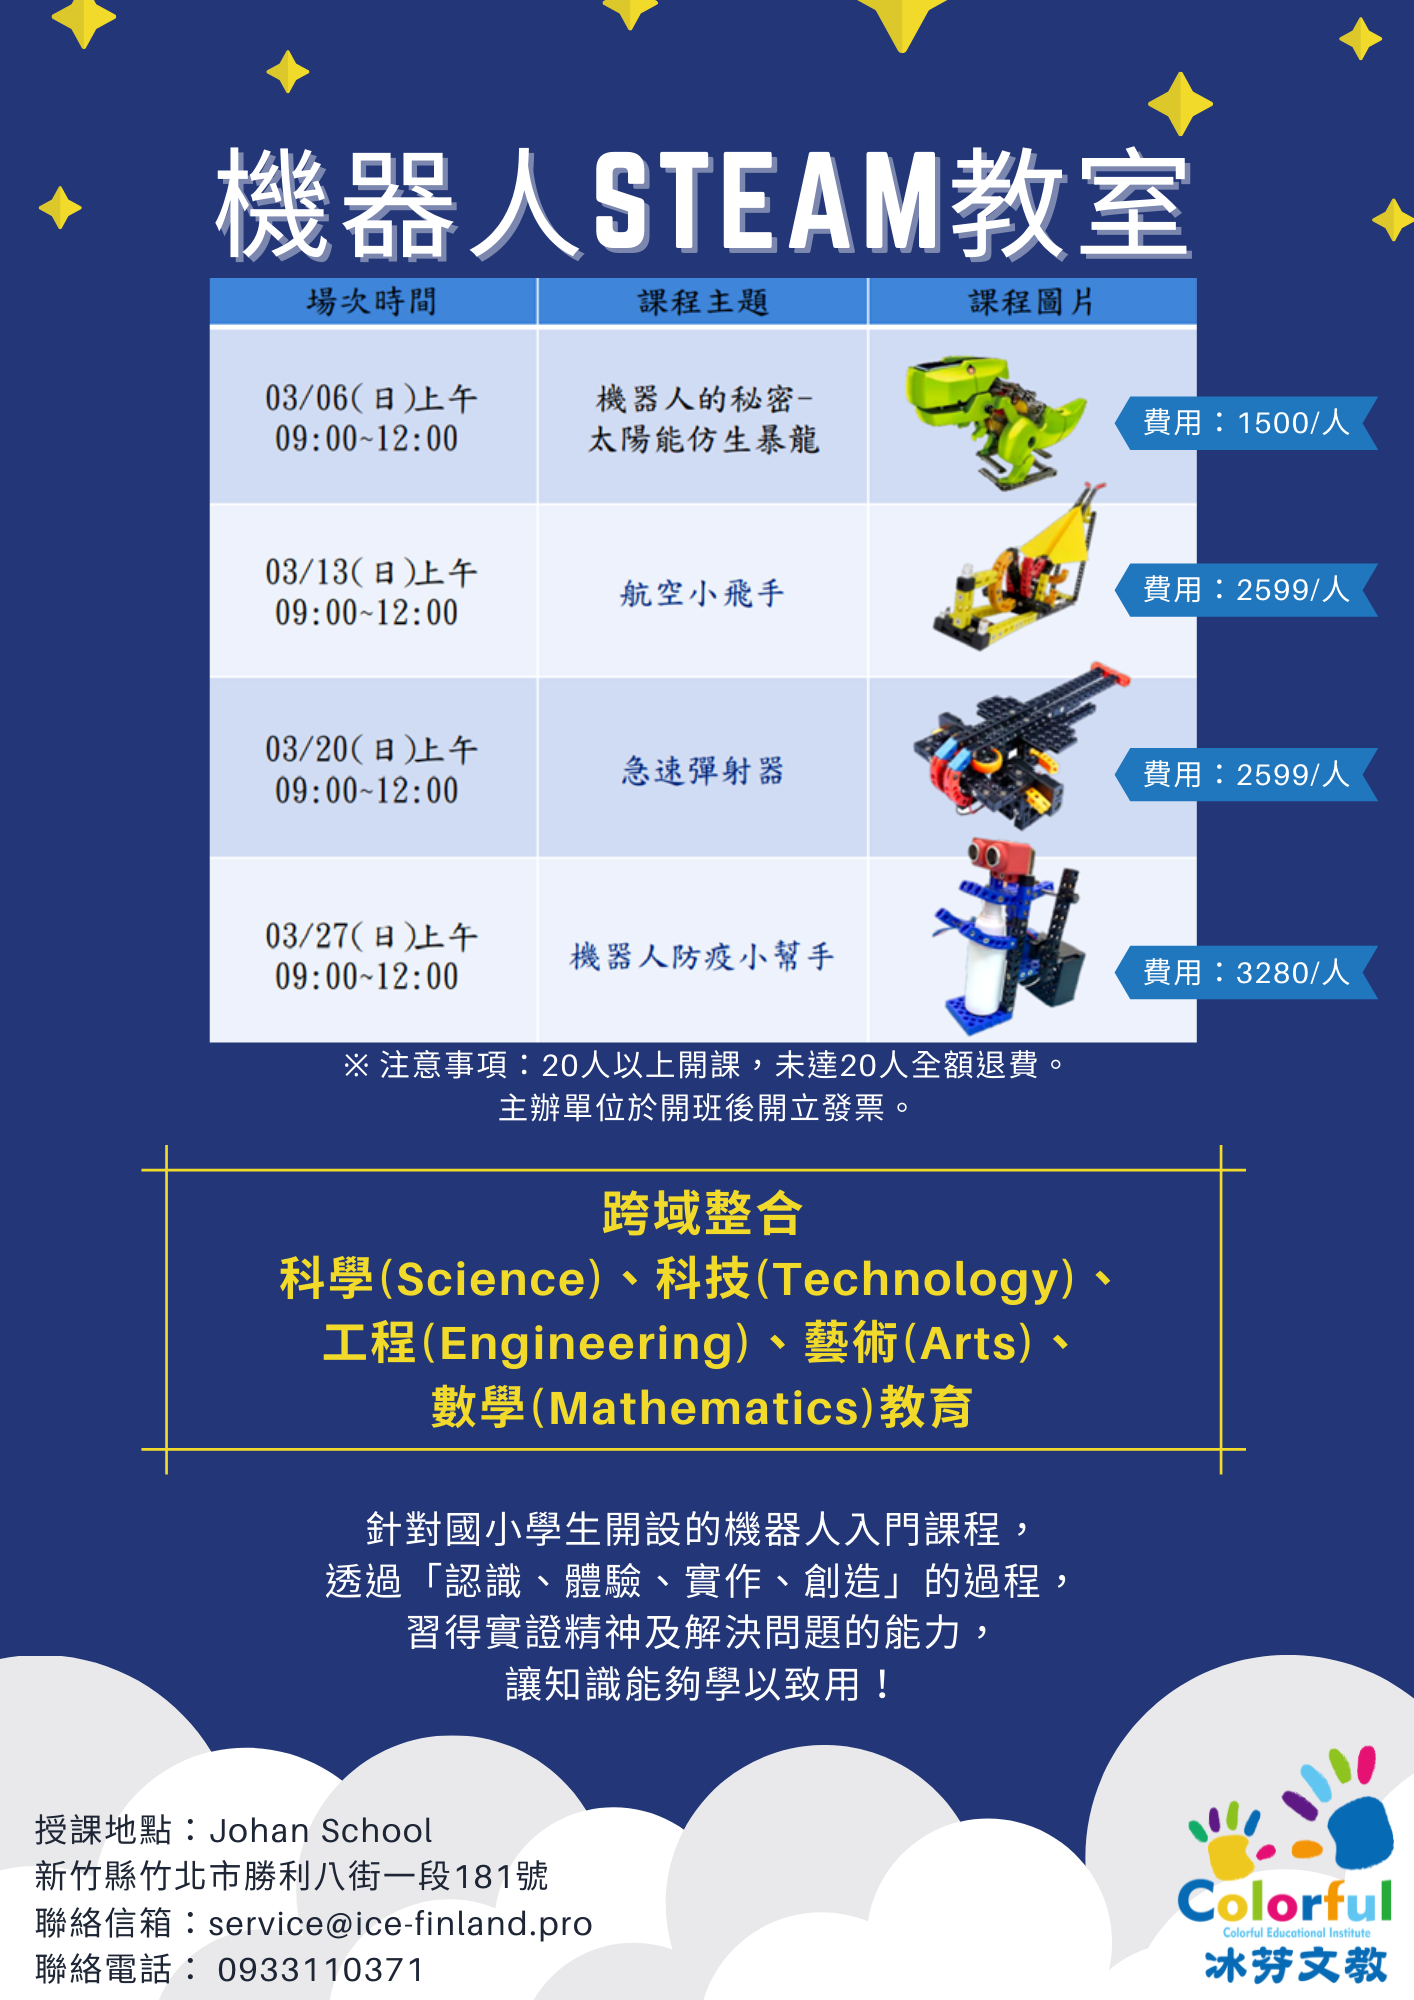
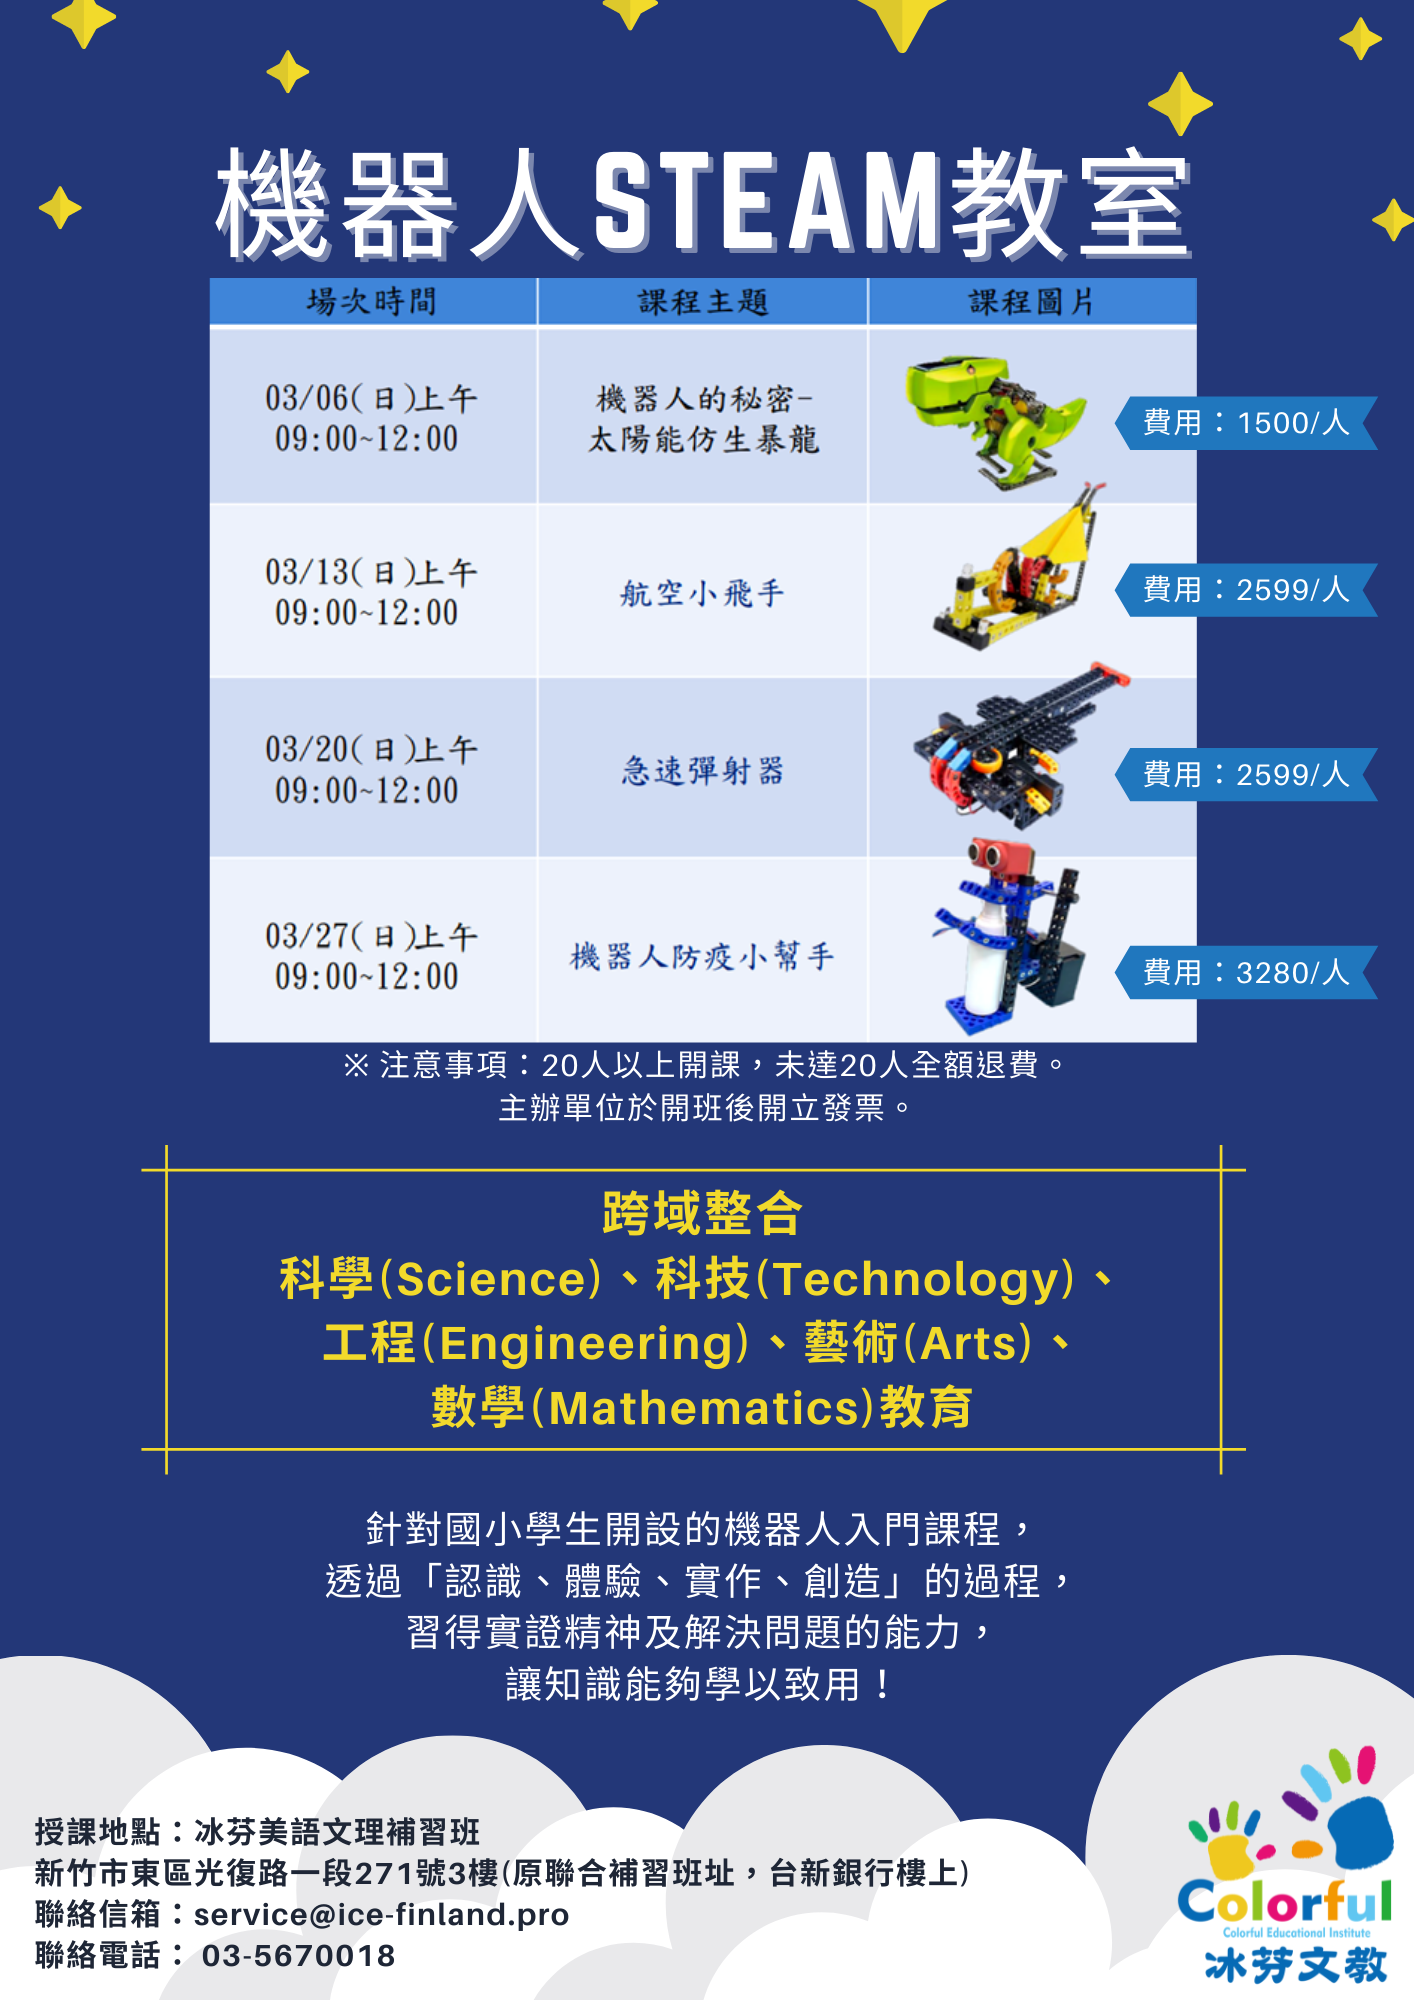
0329

Changed region(s): [[0.0, 0.899, 0.6846, 0.992]]

diff --git a/src/components/Latestnews/Text.vue b/src/components/Latestnews/Text.vue
@@ -8,7 +8,7 @@ export default {
         const route = useRoute();
         const store = useStore();
         const data = reactive({data:{}});
-        const post = reactive([
+         const post = reactive([
             {id:1,title:"【Slang俚語教學】】",
             content:`英文俚語這是一個有趣好玩的主題🥳<br/><br/>
 
@@ -174,7 +174,8 @@ export default {
                 ◎2022/03/27(日) 上午09:00~12:00 <br/>
                 主題：機器人防疫小幫手<br/>
                 費用：3280元/人<br/>
-                授課地點：Johan School 新竹縣竹北市勝利八街一段181號<br/><br/>
+                授課地點：冰芬美語文理補習班<br> 
+                新竹市東區光復路一段271號3樓(原聯合補習班址，台新銀行樓上))<br/><br/>
 
                 ⭐揪同學一起報名，前十位學費還享100元折扣喔⭐<br/>
                 📣優惠名額有限，報名從速~~<br/><br/>
@@ -200,47 +201,33 @@ export default {
                 smallvidio:{
                 },
                 videoshow:false},
-                {id:6,title:"【TVBS擁有主播夢的同學機會來了】",
+                {id:6,title:"【夏令營新生家長說明會】",
                 content:`
-                2022 TVBS主播營<br/>
-                4月營隊課程來嘍～<br/><br/>
-
-                🗣說話不僅技術，也是門藝術，讓孩子學習自信表達！<br/>
-                培養孩子口語表達能力、邏輯思考力、臨場應變、國際觀，以及增加孩子自信心👍🏼<br/>
-                最後一天活動也將由專業主播及記者，帶著孩子體驗電視台模擬播報，讓他們有難忘回憶❤<br/><br/>
-
-                👇以下為報名資格、課程時間、授課地點<br/>
-                報名資格：國三～高三<br/>
-                授課時間：<br/>
-                4/7、4/8 晚上18:00～21:00<br/>
-                4/9 上午9:00～下午17:00<br/>
-                4/10 上午10:00～下午17:00<br/>
-                授課地點：<br/>
-                4/7-4/9 卡爾實驗中學（新竹縣竹北市縣政二路596號）<br/>
-                4/10 內湖總部大樓攝影棚（台北市內湖區瑞光路451號）<br/><br/>
-
-                📌活動費用及詳細內容請洽<br/>
-                聯絡信箱：service@karlschool.org<br/>
-                聯絡電話：03-5589868<br/><br/>
-
-                ⚠注意事項<br/>
-                1.滿15人開課，至多20人，未達15人則不開課<br/>
-                2.上課地點請自行前往<br/><br/>
-
-                🎉更多課程內容資訊等你來詢問<br/>
-                歡迎立即聯絡我們🙂
+                2022冰芬文教 夏令營暨新生家長說明會<br/><br/>
+                🏆Success By Choice 選擇冰芬，使你的未來繽紛<br/>
+                ★以下為六個說明會場次時間：<br/>
+                📣 04/22(五) 晚上18：00 (英文示範教學)<br/>
+                📣 04/23(六) 下午13：30 (數學示範教學)<br/>
+                📣 05/06(五) 晚上18：00 (英文示範教學)<br/>
+                📣 05/07(六) 下午13：30 (數學示範教學)<br/>
+                📣 05/20(五) 晚上18：00 (英文示範教學)<br/>
+                📣 05/21(六) 下午13：30 (數學示範教學)<br/><br/>
+                報名網址:<br/>
+                https://forms.gle/Xnp1ucCNX63bX2j8A<br/>
+                #名額有限<br/>
+                #參加說明會按讚打卡分享抽好禮<br/>
+                #現場報名另有優惠<br/><br/>
+                📩歡迎臉書粉絲團私訊詢問 <br/>
+                📩電子信箱：service@ice-finland.pro<br/>
+                📩官方line：@516ttumg<br/>
+                📩冰芬官網：https://www.ice-finland.club<br/><br/><br/>
+                #Steam #科學 #科技 #工程 #藝術 #數學 #實驗 #實作 #美術 #創造 #理解 #運算 #邏輯 #思考 #程式設計 #自然 #科學 #美語 #外師 #生活會話 #夏令營
                 `,
                 img:"/images/002.png",
                 smallimg:[
-                    {img:"/images/101.jpg"},
-                    {img:"/images/102.jpg"},
-                    {img:"/images/103.jpg"},
-                    {img:"/images/104.jpg"},
-                    {img:"/images/105.jpg"},
-                    {img:"/images/106.jpg"},
-                    {img:"/images/107.jpg"},
-                    {img:"/images/108.jpg"},
-                    
+                    {img:"/images/102.png"},
+                      {img:"/images/103.png"},
+                      {img:"/images/101.png"},
                 ],
                 smallvidio:{
                 },

diff --git a/src/components/Latestnews/Post.vue b/src/components/Latestnews/Post.vue
@@ -170,7 +170,8 @@ export default {
                 ◎2022/03/27(日) 上午09:00~12:00 <br/>
                 主題：機器人防疫小幫手<br/>
                 費用：3280元/人<br/>
-                授課地點：Johan School 新竹縣竹北市勝利八街一段181號<br/><br/>
+                授課地點：冰芬美語文理補習班<br> 
+                新竹市東區光復路一段271號3樓(原聯合補習班址，台新銀行樓上))<br/><br/>
 
                 ⭐揪同學一起報名，前十位學費還享100元折扣喔⭐<br/>
                 📣優惠名額有限，報名從速~~<br/><br/>
@@ -196,46 +197,33 @@ export default {
                 smallvidio:{
                 },
                 videoshow:false},
-                {id:6,title:"【TVBS擁有主播夢的同學機會來了】",
+                {id:6,title:"【夏令營新生家長說明會】",
                 content:`
-                2022 TVBS主播營<br/>
-                4月營隊課程來嘍～<br/><br/>
-
-                🗣說話不僅技術，也是門藝術，讓孩子學習自信表達！<br/>
-                培養孩子口語表達能力、邏輯思考力、臨場應變、國際觀，以及增加孩子自信心👍🏼<br/>
-                最後一天活動也將由專業主播及記者，帶著孩子體驗電視台模擬播報，讓他們有難忘回憶❤<br/><br/>
-
-                👇以下為報名資格、課程時間、授課地點<br/>
-                報名資格：國三～高三<br/>
-                授課時間：<br/>
-                4/7、4/8 晚上18:00～21:00<br/>
-                4/9 上午9:00～下午17:00<br/>
-                4/10 上午10:00～下午17:00<br/>
-                授課地點：<br/>
-                4/7-4/9 卡爾實驗中學（新竹縣竹北市縣政二路596號）<br/>
-                4/10 內湖總部大樓攝影棚（台北市內湖區瑞光路451號）<br/><br/>
-
-                📌活動費用及詳細內容請洽<br/>
-                聯絡信箱：service@karlschool.org<br/>
-                聯絡電話：03-5589868<br/><br/>
-
-                ⚠注意事項<br/>
-                1.滿15人開課，至多20人，未達15人則不開課<br/>
-                2.上課地點請自行前往<br/><br/>
-
-                🎉更多課程內容資訊等你來詢問<br/>
-                歡迎立即聯絡我們🙂
+                2022冰芬文教 夏令營暨新生家長說明會<br/><br/>
+                🏆Success By Choice 選擇冰芬，使你的未來繽紛<br/>
+                ★以下為六個說明會場次時間：<br/>
+                📣 04/22(五) 晚上18：00 (英文示範教學)<br/>
+                📣 04/23(六) 下午13：30 (數學示範教學)<br/>
+                📣 05/06(五) 晚上18：00 (英文示範教學)<br/>
+                📣 05/07(六) 下午13：30 (數學示範教學)<br/>
+                📣 05/20(五) 晚上18：00 (英文示範教學)<br/>
+                📣 05/21(六) 下午13：30 (數學示範教學)<br/><br/>
+                報名網址:<br/>
+                https://forms.gle/Xnp1ucCNX63bX2j8A<br/>
+                #名額有限<br/>
+                #參加說明會按讚打卡分享抽好禮<br/>
+                #現場報名另有優惠<br/><br/>
+                📩歡迎臉書粉絲團私訊詢問 <br/>
+                📩電子信箱：service@ice-finland.pro<br/>
+                📩官方line：@516ttumg<br/>
+                📩冰芬官網：https://www.ice-finland.club<br/><br/><br/>
+                #Steam #科學 #科技 #工程 #藝術 #數學 #實驗 #實作 #美術 #創造 #理解 #運算 #邏輯 #思考 #程式設計 #自然 #科學 #美語 #外師 #生活會話 #夏令營
                 `,
                 img:"/images/002.png",
                 smallimg:[
-                    {img:"/images/101.jpg"},
-                    {img:"/images/102.jpg"},
-                    {img:"/images/103.jpg"},
-                    {img:"/images/104.jpg"},
-                    {img:"/images/105.jpg"},
-                    {img:"/images/106.jpg"},
-                    {img:"/images/107.jpg"},
-                    {img:"/images/108.jpg"},
+                    {img:"/images/102.png"},
+                      {img:"/images/103.png"},
+                     {img:"/images/101.png"},
                     
                 ],
                 smallvidio:{

diff --git a/src/components/Home/Course.vue b/src/components/Home/Course.vue
@@ -15,7 +15,7 @@ export default {
         const courselist = reactive([
             {title:"STEAM SCHOOL", img:"/images/003.png", id:"/Latestnews/4"},
             {title:"機器人STEAM教室", img:"/images/001.png", id:"/Latestnews/5"},
-            {title:"TVBS贏在說話主播營", img:"/images/002.png", id:"/Latestnews/6"},
+            {title:"夏令營新生家長說明會", img:"/images/002.png", id:"/Latestnews/6"},
         ])
         return {props, courselist };
     }
